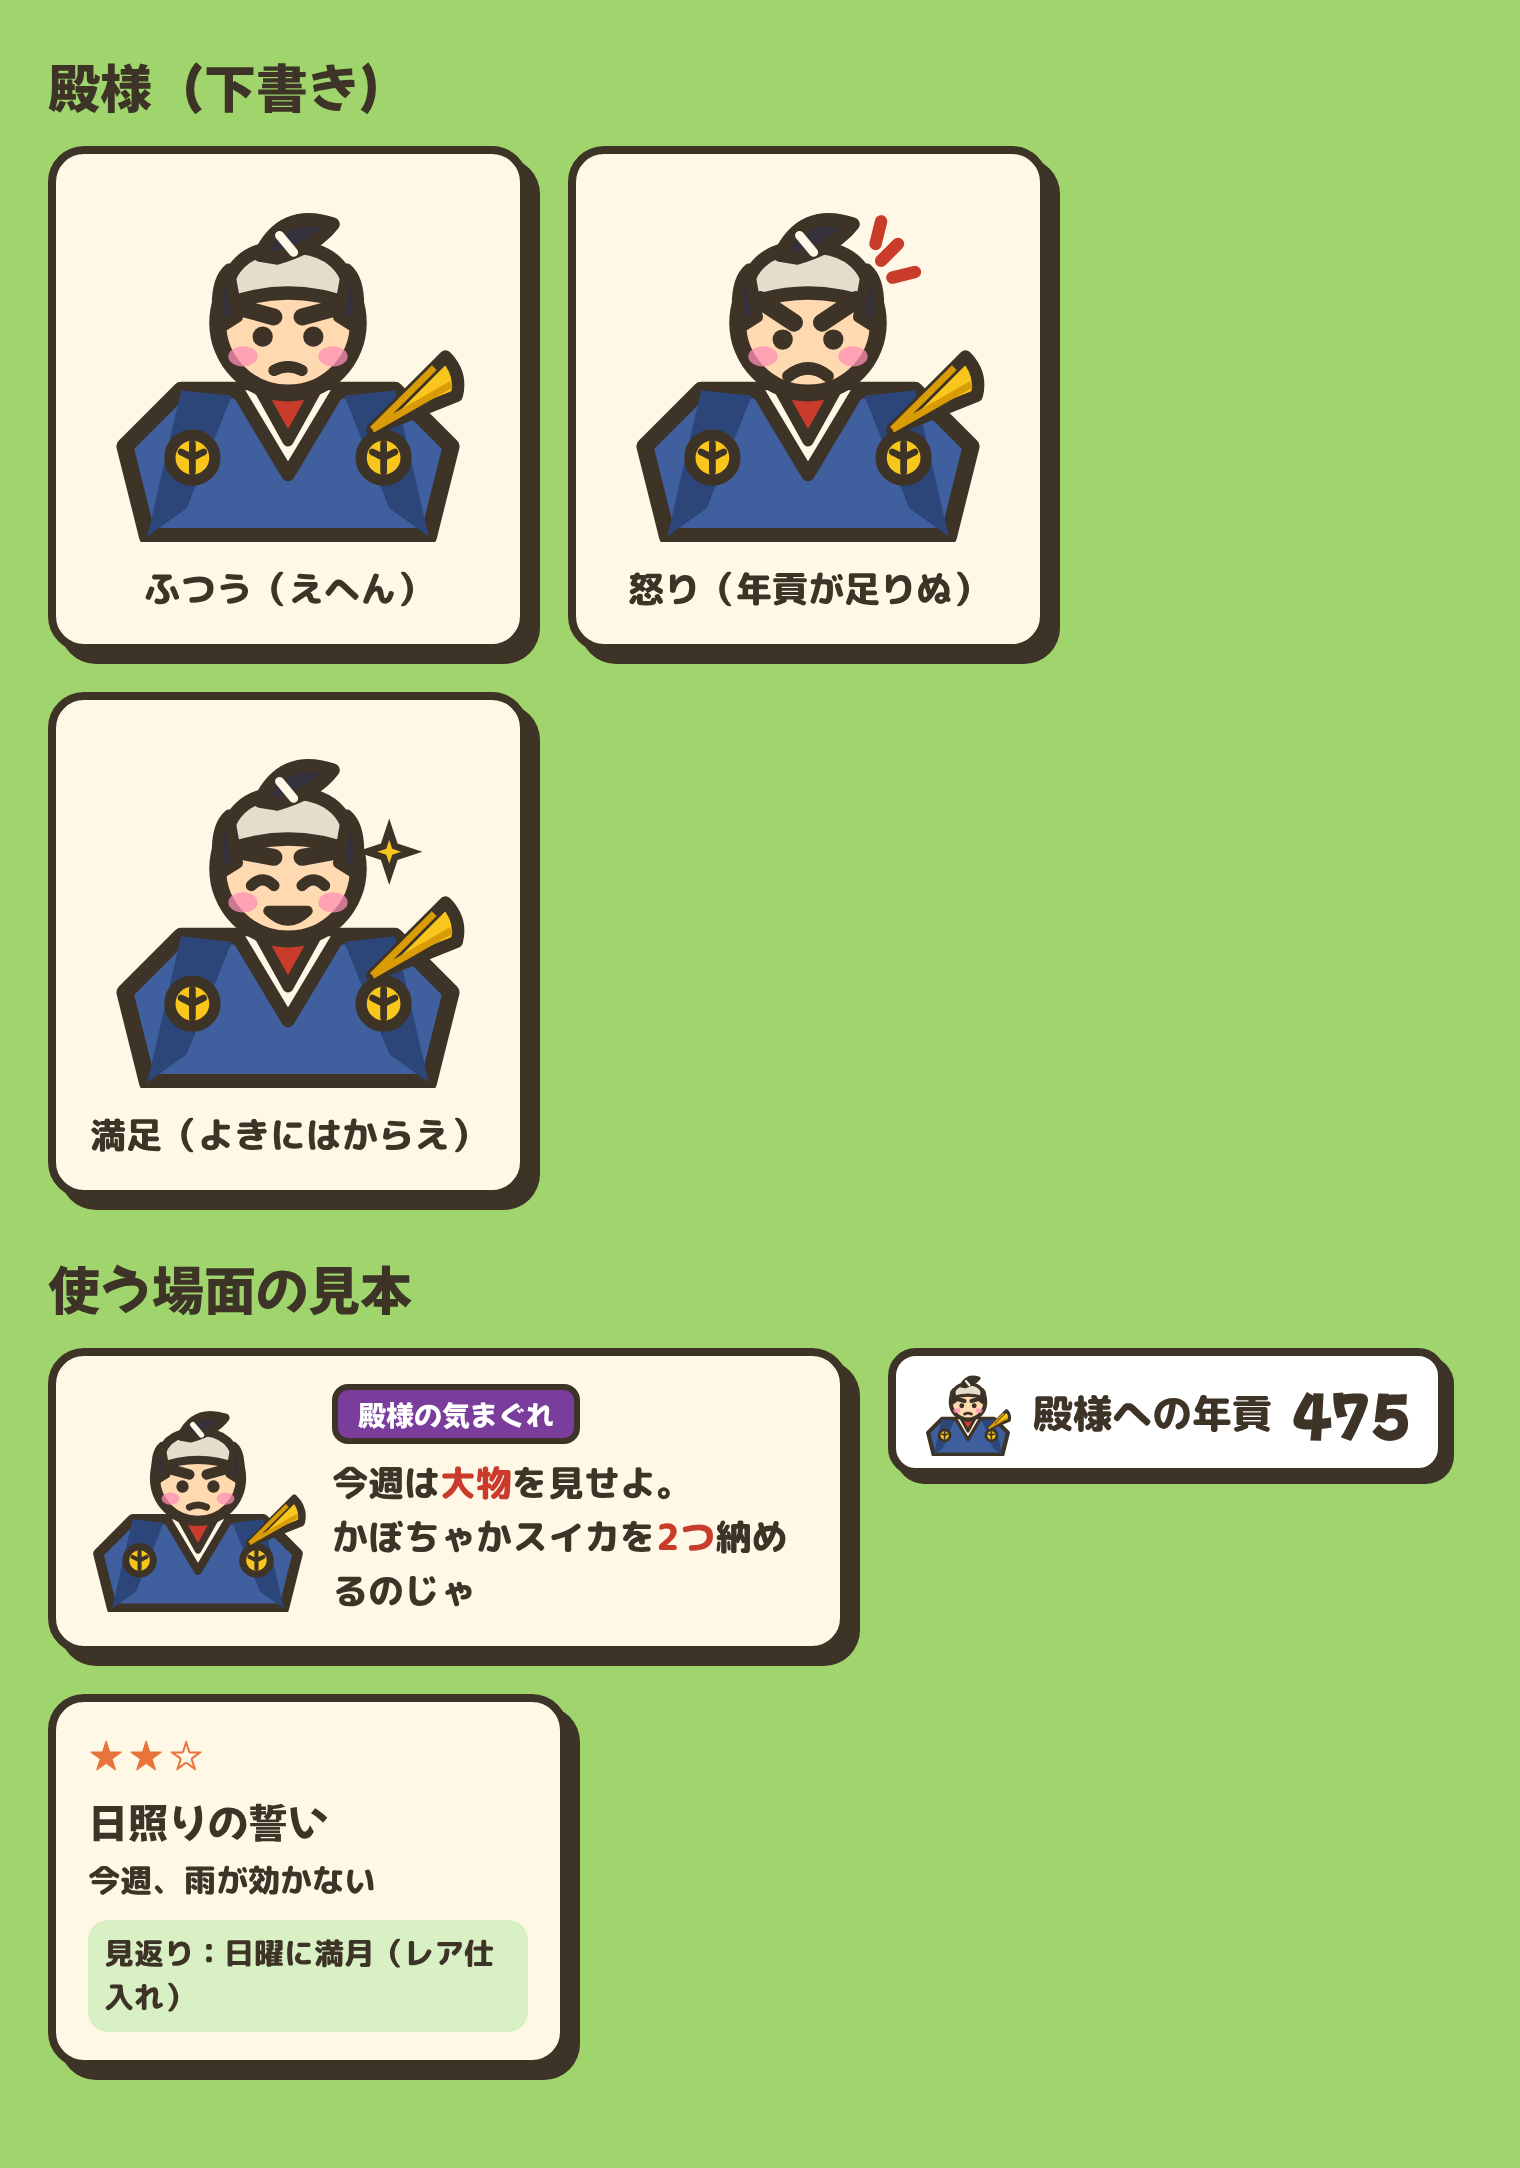
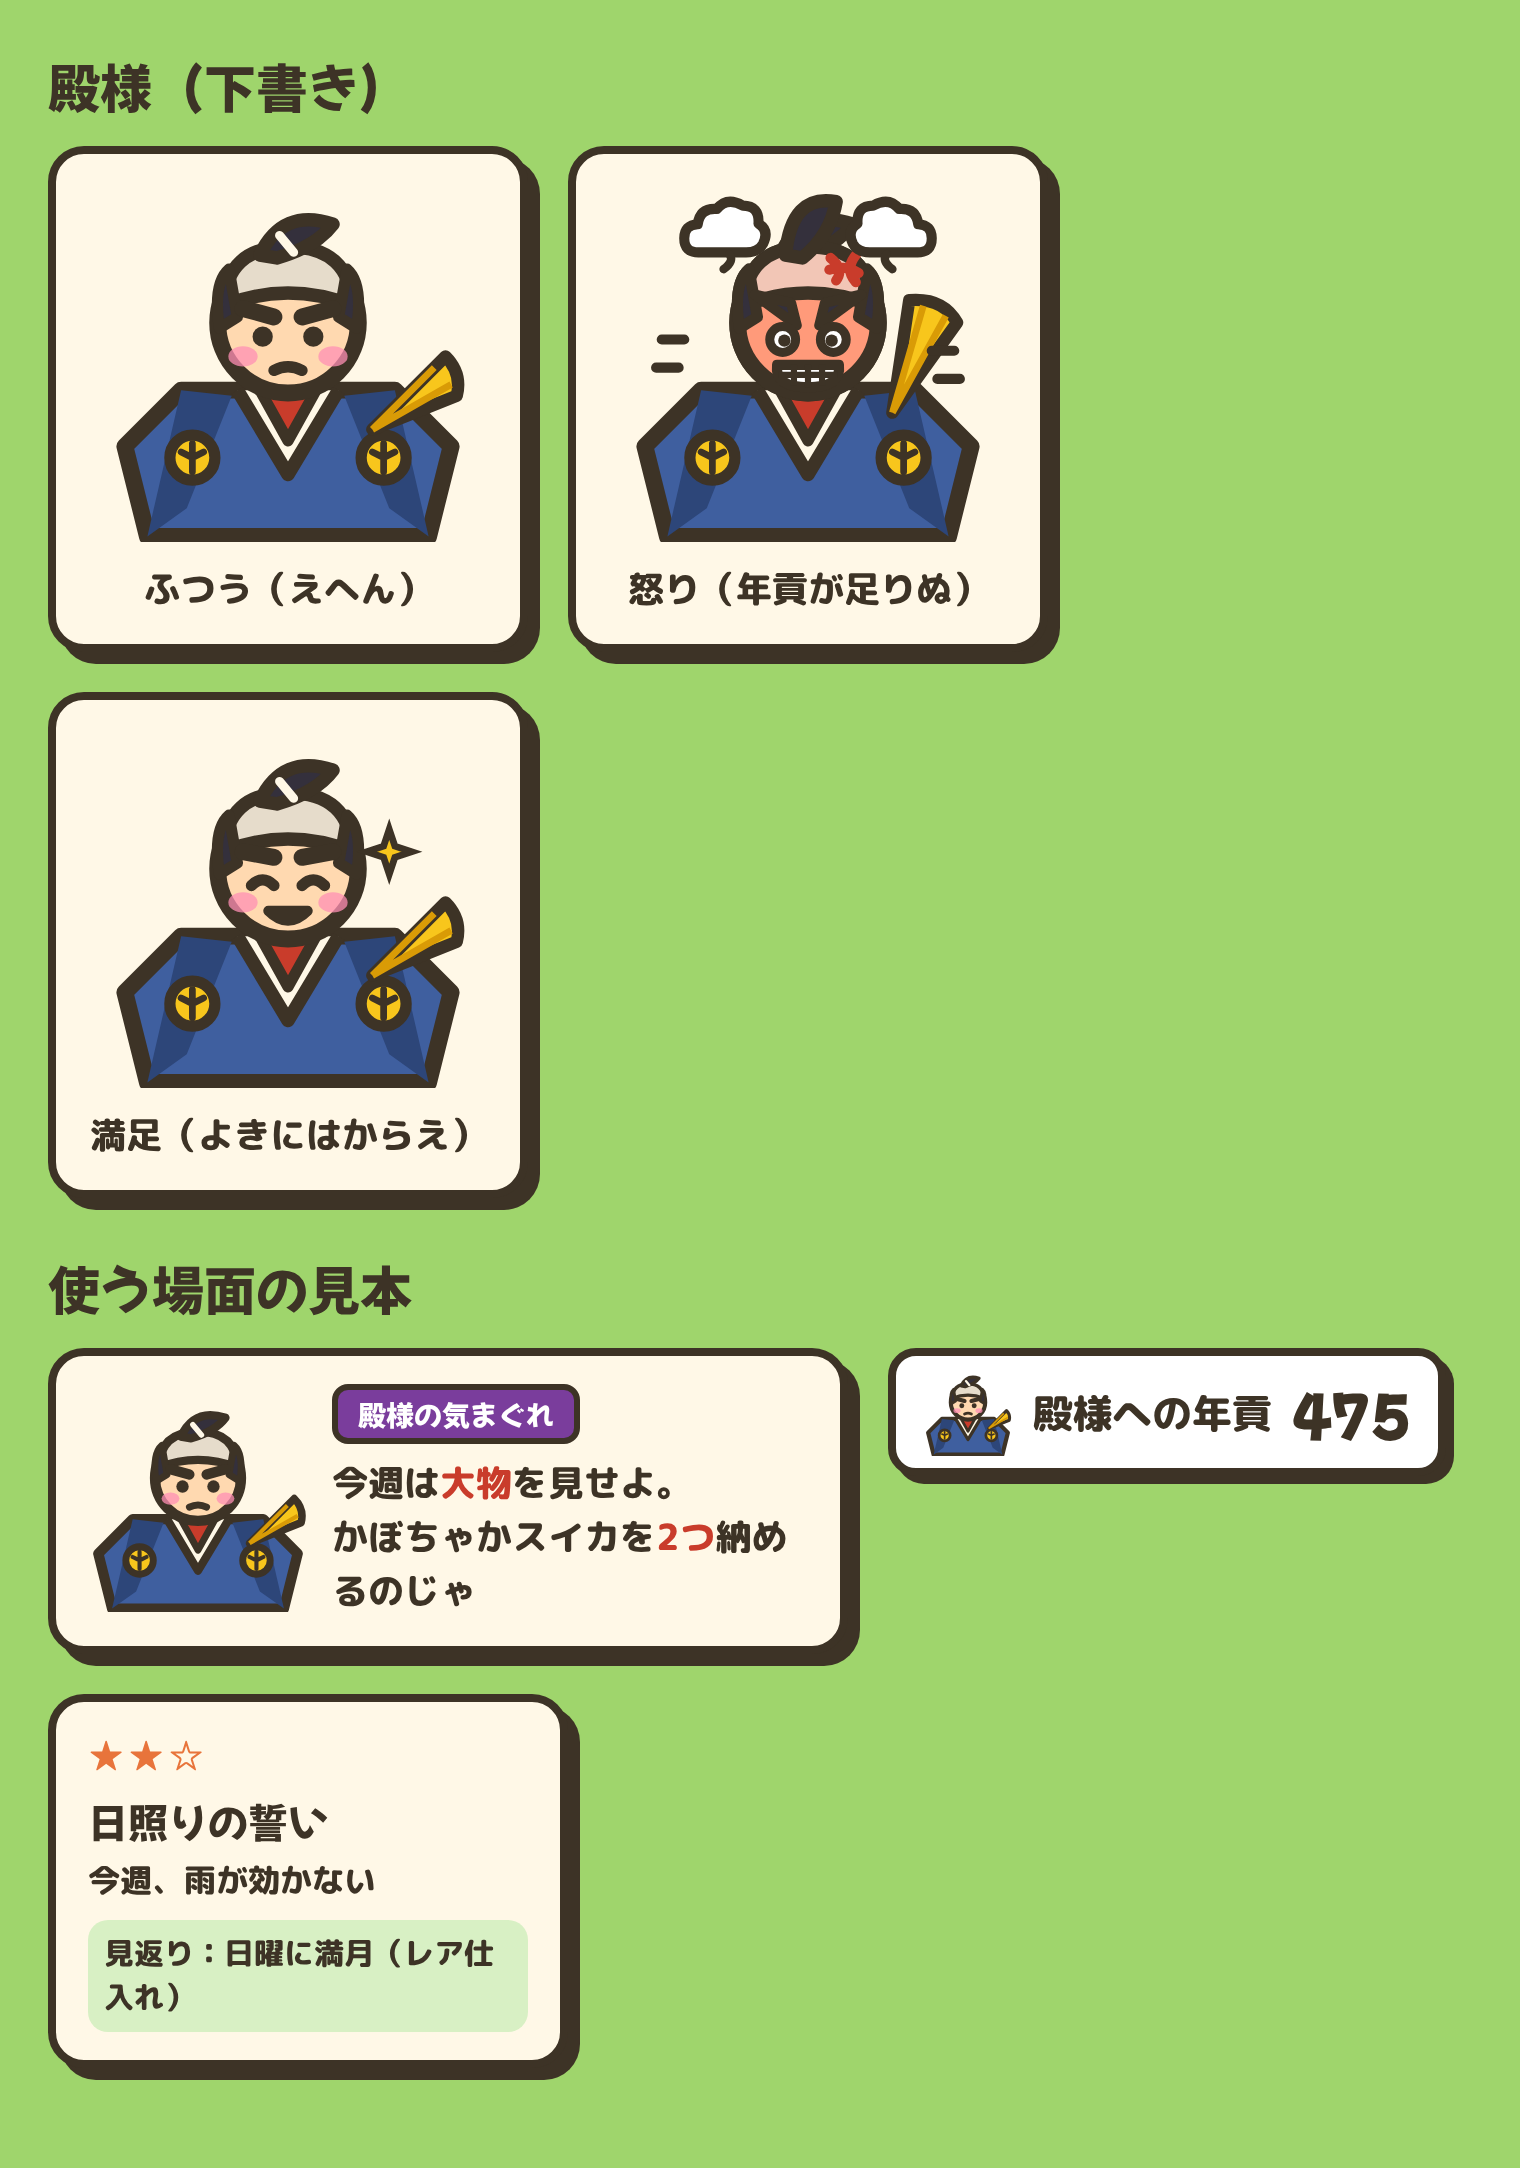
曜日の表示を木の板と丸札に作りなおす／試練の案を週契約・ゆるやかな難しさに更新／殿様の怒り顔を描きなおす
Claude-Session: https://claude.ai/code/session_018QJoWK86eYV4E6xP5Sk3GF

Changed region(s): [[0.4329, 0.0927, 0.6493, 0.2163], [0.4329, 0.1545, 0.4638, 0.1854]]

diff --git a/src/style.css b/src/style.css
@@ -7765,3 +7765,138 @@ body:has(#overlay.show) :is(.machine, .machine *) {
 .scene {
   min-height: 24px;
 }
+
+/* ==== 曜日（作り直し）：木の板の上に丸い札が道のりのように並ぶ。今日は金の札が大きく、上に▼ ==== */
+.week {
+  position: relative;
+  display: grid;
+  grid-template-columns: repeat(7, 1fr);
+  align-items: center;
+  gap: 0;
+  margin: 8px auto 0;
+  max-width: 440px;
+  padding: 6px 8px;
+  background:
+    repeating-linear-gradient(90deg, rgba(0, 0, 0, 0.05) 0 2px, transparent 2px 46px),
+    linear-gradient(#c98c57, #b07444);
+  border: 3px solid var(--ink);
+  border-radius: 14px;
+  box-shadow: 4px 4px 0 var(--ink);
+}
+/* 札をつなぐ点線（道のり） */
+.week::before {
+  content: '';
+  position: absolute;
+  left: 7%;
+  right: 7%;
+  top: 50%;
+  border-top: 3px dashed rgba(61, 51, 38, 0.45);
+  translate: 0 -50%;
+}
+.wd {
+  position: relative;
+  z-index: 1;
+  display: flex;
+  justify-content: center;
+  height: auto;
+  background: none;
+  border-radius: 0;
+  transform: none;
+  box-shadow: none;
+}
+.wd-plate {
+  position: relative;
+  display: flex;
+  align-items: center;
+  justify-content: center;
+  width: 34px;
+  height: 34px;
+  border-radius: 50%;
+  background: var(--cloth);
+  border: 3px solid var(--ink);
+  color: var(--ink);
+  transition: transform 0.3s cubic-bezier(.3, 1.4, .5, 1), background-color 0.3s;
+}
+.wd-plate b {
+  font-family: var(--font-pop);
+  font-weight: 400;
+  font-size: 1rem;
+  line-height: 1;
+}
+/* 市・年貢の小さな印（札の右下） */
+.wd-plate i {
+  position: absolute;
+  right: -7px;
+  bottom: -6px;
+  display: flex;
+  width: 18px;
+  height: 18px;
+  margin: 0;
+  padding: 1px;
+  border-radius: 50%;
+  background: #fff;
+  border: 2px solid var(--ink);
+}
+.wd-plate i svg { width: 100%; height: 100%; opacity: 1; filter: none; }
+/* 過ぎた日：くすんだ札に緑の済み印 */
+.wd.past .wd-plate { background: #e6dccb; color: #9a8b74; }
+.wd.past .wd-plate::after {
+  content: '';
+  position: absolute;
+  left: 50%;
+  top: 46%;
+  width: 14px;
+  height: 7px;
+  border-left: 3px solid #4e9230;
+  border-bottom: 3px solid #4e9230;
+  translate: -50% -50%;
+  rotate: -45deg;
+}
+.wd.past .wd-plate b { opacity: 0.35; }
+/* 今日：金の札が大きく、上に▼ */
+.wd.now .wd-plate {
+  background: var(--gold);
+  transform: scale(1.22);
+  box-shadow: 2px 2px 0 var(--ink);
+}
+.wd.now::before {
+  content: '';
+  position: absolute;
+  top: -11px;
+  left: 50%;
+  translate: -50% 0;
+  border: 6px solid transparent;
+  border-top: 8px solid var(--ink);
+  z-index: 2;
+}
+/* 日曜（年貢）：赤い縁。お金が足りないと赤く */
+.wd.tax .wd-plate { border-color: #c93c2b; }
+.wd.tax .wd-plate b { color: #c93c2b; }
+.wd.tax.short .wd-plate { background: #ffd9d2; }
+.wd.tax.now .wd-plate b { color: var(--ink); }
+.wd.tax.now.short .wd-plate { background: #ff8a7a; }
+/* 前の見た目の名残を消す */
+.wd b { color: inherit; }
+.wd.market b, .wd.tax b { color: inherit; }
+.wd:not(.now) i svg { opacity: 1; filter: none; }
+.wd.past { background: none; }
+.wd.now { background: none; box-shadow: none; transform: none; }
+
+/* 横持ち：曜日は上の帯の空いた真ん中に重ねる（新しい見た目のあとでもう一度） */
+@media (max-height: 480px) and (orientation: landscape) {
+  .week {
+    position: absolute;
+    top: 50%;
+    left: 50%;
+    transform: translate(-50%, -50%);
+    margin: 0;
+    width: min(330px, 38vw);
+    padding: 3px 6px;
+    box-shadow: 2px 2px 0 var(--ink);
+    z-index: 2;
+  }
+  .wd-plate { width: 26px; height: 26px; border-width: 2px; }
+  .wd-plate b { font-size: 0.75rem; }
+  .wd-plate i { width: 14px; height: 14px; right: -5px; bottom: -5px; }
+  .wd.now::before { top: -9px; }
+}

diff --git a/src/main.ts b/src/main.ts
@@ -363,9 +363,10 @@ function renderWeek(): void {
     el.week,
     WEEKDAYS.map((w, k) => {
       const d = k + 1;
+      // 札の右下に小さな印：市の日は値札、日曜は年貢の俵
       const mark = d === CONFIG.taxPeriod ? art('bale') : CONFIG.marketDays.includes(d) ? art('bargain') : '';
       const cls = `wd${d === today ? ' now' : d < today ? ' past' : ''}${d === CONFIG.taxPeriod ? ' tax' : ''}${CONFIG.marketDays.includes(d) ? ' market' : ''}${d === CONFIG.taxPeriod && state.gold < t.amount ? ' short' : ''}`;
-      return `<span class="${cls}"><b>${w}</b><i>${mark}</i></span>`;
+      return `<span class="${cls}"><span class="wd-plate"><b>${w}</b>${mark ? `<i>${mark}</i>` : ''}</span></span>`;
     }).join(''),
   );
   el.week.setAttribute('aria-label', today ? L(`今日は${WEEKDAYS[today - 1]}曜日`, `Today: ${WEEKDAYS[today - 1]}`) : '');

diff --git a/docs/trials-plan.md b/docs/trials-plan.md
@@ -1,12 +1,13 @@
 # 試練のセット（案・未実装）
 
-3つの仕組みで「考える要素」を足す。罰として起きるもの（年貢の条件・殿様の気まぐれ）は見返りなし。自分で選ぶ縛り（契約）には見返りがある。
+3つの仕組みで「考える要素」を足す。罰として起きるもの（年貢の条件・殿様の気まぐれ）は見返りなし。自分で選ぶ縛り（週契約）には見返りがある。失敗したときは、どれも「年貢が増える」で統一する（すぐ終わりにはしない）。
 
-## 1. 契約（自分で縛る・見返りあり）
+## 1. 週契約（自分で縛る・見返りあり）
 
-- **いつ**：毎週月曜の朝、回す前に「今週の契約」が3つ並ぶ。1つ受けるか、受けないかを選ぶ（受けなくてもよい）
+- **名前**：「週契約」。その週（月〜日）だけ効くことを、名前・札・期限の表示で伝える
+- **いつ**：毎週月曜の朝、回す前に「今週の週契約」が3つ並ぶ。1つ受けるか、受けないかを選ぶ（受けなくてもよい）。ふつうでは出ない（難しい1から）
 - **見返り**：日曜の年貢を納めたあとにもらえる（その週を越えられたら）
-- **見せ方**：受けた契約は曜日の表示の下に小さな札で出し続ける（★と縛りの絵）
+- **見せ方**：受けた週契約は、曜日の表示の月〜日の上に、帯（月から日まで伸びるリボン）で出し続ける。帯の終わり（日曜）に見返りの絵。日曜が終わると帯ごと消える
 - **出やすさ**：★1が多く、★3はまれ。同じ週に同じ縛りは並ばない
 
 | ★ | 名前 | 縛り（今週ずっと） | 見返り |
@@ -26,7 +27,7 @@
 | ★★★ | 市場休み | 作物を売れるのは土日だけ | +100 |
 | ★★★ | 霧の週 | リールが1つ、止まるまで見えない上に、その出目は使えない日がある | リール+1（ずっと） |
 
-※ 霧の週の見返りは強いので、出るのは難しい3以上だけにする案。
+※ 霧の週は、作ってから強さを試して決める。
 
 ## 2. 年貢の条件（罰・見返りなし）
 
@@ -46,7 +47,8 @@
 
 - **いつ**：7回目の年貢の週（クリアの週）。月曜の朝に殿様が出てきて、気まぐれを1つ言う（カットイン）
 - **見せ方**：年貢の札が「殿様への年貢」に変わり、殿様の顔が付く。日曜に払えたら殿様が満足の顔でクリアの演出、払えなければ怒りの顔
-- **殿様の絵**：ふつう（えへん）・怒り・満足の3つの表情（下書き：docs/img/lord-draft.png）
+- **殿様の絵**：ふつう（えへん）・怒り（真っ赤な顔・吊り上がった眉・食いしばった歯・怒りマーク・湯気・振り上げた扇子・震え）・満足の3つの表情（下書き：docs/img/lord-draft.png）
+- **失敗したとき**：殿様が怒り、年貢が増える（気まぐれの条件に届かなかった分）。それでも払えなければ終わり
 
 | 気まぐれ | 中身 |
 |---|---|
@@ -58,15 +60,17 @@
 | 見回り | 毎晩、家来が実った作物を1つ持っていく（かかしで防げる） |
 | 豊作を見たい | 日曜の終わりに、畑の半分以上に作物が植わっていること |
 
-## 4. 難しさとの組み合わせ（案）
+## 4. 難しさとの組み合わせ（案・ゆるやかに）
 
-| 難しさ | 契約 | 年貢の条件 | 殿様 |
-|---|---|---|---|
-| ふつう | あり（★1〜2） | なし | 7週目に気まぐれ1つ（軽いものから） |
-| 難しい1 | あり | 3・5週目 | 同上 |
-| 難しい2 | あり | 毎週（2週目から） | 気まぐれ1つ（どれでも） |
-| 難しい3 | あり（★3も） | 毎週 | 4週目にも殿様（気まぐれ1つ） |
-| 難しい4 | あり | 毎週 | 気まぐれ2つ重なる |
-| 難しい5 | あり | 毎週 | 気まぐれ2つ＋増えるイナゴ |
+1段上がるごとに、新しいことは1つだけ足す。
 
-今の「年貢×1.3」「ショップ×1.3」などの数字の上乗せは、置き換えるか残すかを、自動プレイで強さを見てから決める。
+| 難しさ | 増えること | 週契約 | 年貢の条件 | 殿様 |
+|---|---|---|---|---|
+| ふつう | ― | なし | なし | 7週目に軽い気まぐれ1つ |
+| 難しい1 | 週契約が出る（★1だけ） | ★1 | なし | 同上 |
+| 難しい2 | 年貢の条件が出る（5週目だけ） | ★1〜2 | 5週目 | 同上 |
+| 難しい3 | 年貢の条件が増える・殿様の気まぐれがどれでも | ★1〜3 | 3・5週目 | 気まぐれはどれでも |
+| 難しい4 | 年貢の条件が毎週 | ★1〜3 | 2週目から毎週 | 同上 |
+| 難しい5 | 殿様が4週目にも・増えるイナゴ | ★1〜3 | 毎週 | 4週目と7週目 |
+
+今の「年貢×1.3」「ショップ×1.3」「お邪魔が早く多い」「単品×0.3」は、この表に置き換える案。残すかどうかは自動プレイで強さを見てから決める。
